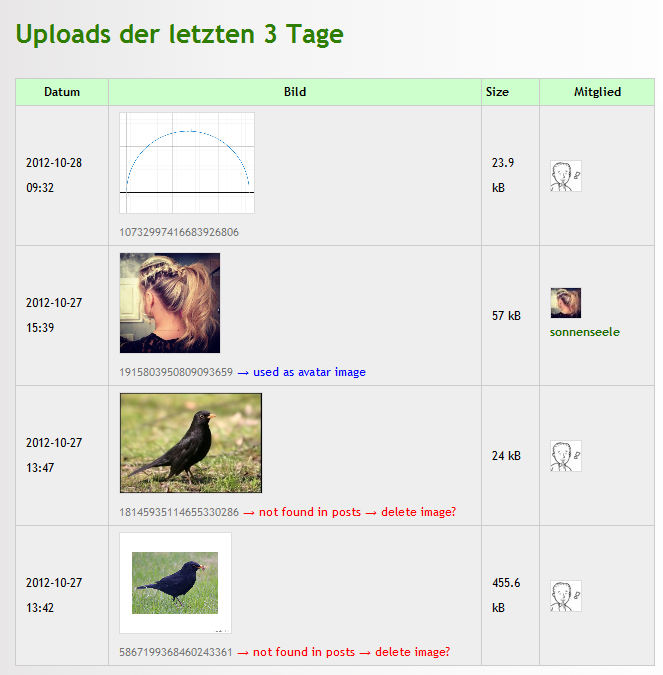
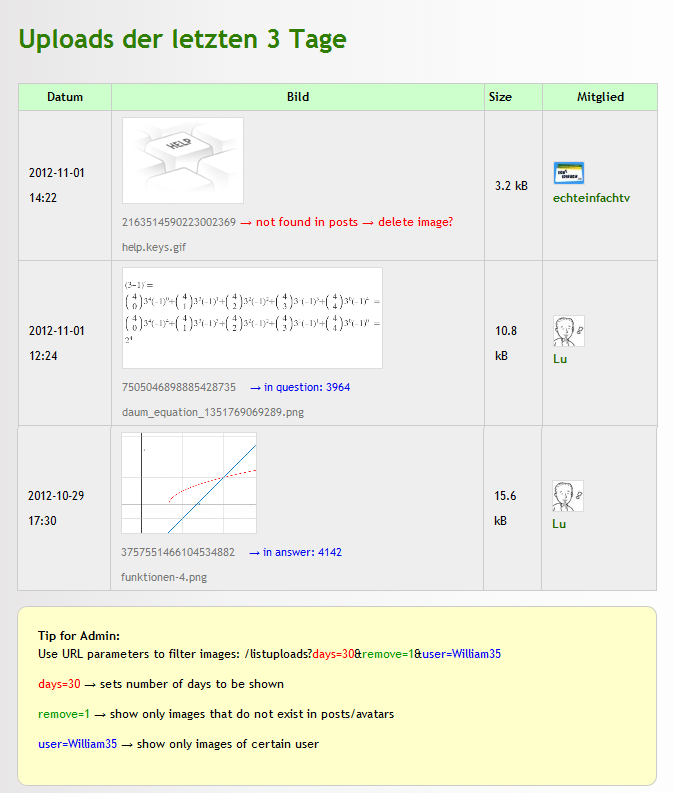
Update to v0.3 (new features added)

diff --git a/qa-list-uploads-page.php b/qa-list-uploads-page.php
@@ -35,14 +35,46 @@
 
 		function process_request($request)
 		{
-			// you can set number of days to be shown in the URL, e.g. yoursite.com/listuploads?days=5
+			/* process URL parameters */ 
+			
+			// you can set number of days to be shown in the URL
+			// e.g. yoursite.com/listuploads?days=5
 			$lastdays = qa_get("days");
 			if(is_null($lastdays) || $lastdays<=0) {
 				$lastdays = 3; // show new uploads from last x days
 			}
 			
-			/* start */
-			$qa_content=qa_content_prepare();
+			// you can set a flag in the URL to show only those images that do not exist in posts/avatars
+			// e.g. yoursite.com/listuploads?days=5&remove=1
+			$onlyImgToRemove = qa_get("remove");
+			$removeMode = false;
+			if(!is_null($onlyImgToRemove)) {
+				$removeMode=true;
+			}
+			
+			// you can specifiy a username in the URL if you wish to only see images of this user
+			// e.g. yoursite.com/listuploads?days=30&user=William35
+			$gotUserName = qa_get("user");
+			$usernameNotExists = false;
+			if(is_null($gotUserName)) {
+				$userid_toQuery = "";
+			}
+			else {
+				// get userid
+				$useridRowQuery = qa_db_query_sub("SELECT userid FROM ^users WHERE handle = '".$gotUserName."' LIMIT 1");
+				$theUserData = mysql_fetch_array($useridRowQuery);
+				if(!is_null($theUserData[0])) {				
+					$userid_toQuery = "AND userid = ".$theUserData[0];
+				}
+				else {
+					$userid_toQuery = "";
+					$usernameNotExists = true; // to inform admin
+				}
+			}
+			
+			
+			/* start content */
+			$qa_content = qa_content_prepare();
 
 			// page title
 			$qa_content['title'] = qa_lang_html('qa_list_uploads_lang/page_title') . " ".$lastdays." ".qa_lang_html('qa_list_uploads_lang/page_days'); 
@@ -64,15 +96,21 @@
 				return $qa_content;
 			}
 			
+			// inform admin if username passed by URL does not exist
+			if($usernameNotExists) {
+				$qa_content['custom0']='<div>'.qa_lang_html('qa_list_uploads_lang/user_not_existing').'</div>';
+				return $qa_content;
+			}
 
 			// required for qa_get_blob_url()
 			require_once QA_INCLUDE_DIR.'qa-app-blobs.php';
 			
 			// query blobs of last x days
-			$queryRecentUploads = qa_db_query_sub("SELECT blobid,format,userid,created
+			$queryRecentUploads = qa_db_query_sub("SELECT blobid,format,userid,created,filename
 											FROM `^blobs`
-											WHERE created > NOW() - INTERVAL ".$lastdays." DAY
-											ORDER BY created DESC;"); // LIMIT 0,100
+											WHERE created > NOW() - INTERVAL ".$lastdays." DAY " 
+											. $userid_toQuery .
+											" ORDER BY created DESC;"); // LIMIT 0,100
 											
 			// counter for custom html output
 			$c = 2;
@@ -92,10 +130,34 @@
 				
 				// check if image is used in post content
 				$notFoundString = '<span style="color:#F00">&rarr; not found in posts &rarr; <a style="color:#F00;" href="?delete='.$blobrow['blobid'].'">delete image?</a></span>';
-				$imageExistsQuery = qa_db_query_sub("SELECT postid FROM `^posts` WHERE `content` LIKE '%".$blobrow['blobid']."%' LIMIT 1");
+				$imageExistsQuery = qa_db_query_sub("SELECT postid,type,parentid FROM `^posts` WHERE `content` LIKE '%".$blobrow['blobid']."%' LIMIT 1");
 				$imageInPost = mysql_fetch_array($imageExistsQuery);
 				$existsInPost = $imageInPost[0];
-				$existsInPost = ($existsInPost=="") ? $notFoundString : "";
+				// $existsInPost = ($existsInPost=="") ? $notFoundString : "";
+				
+				// set link to question, answer, comment that contains the image
+				if($existsInPost=="") {
+					$existsInPost =  $notFoundString;
+				}
+				else if($imageInPost[1]=="A") {
+					$existsInPost = "<a href='".$imageInPost[2]."?show=".$imageInPost[0]."#a".$imageInPost[0]."' style='margin-left:10px;font-size:11px;'>&rarr; in answer: ".$existsInPost."</a>";
+				}
+				else if($imageInPost[1]=="C") {
+					// get question link from answer
+					$getQlink = mysql_fetch_array( qa_db_query_sub("SELECT parentid,type FROM `^posts` WHERE `postid` = ".$imageInPost[2]." LIMIT 1") );
+					$linkToQuestion = $getQlink[0];
+					if($getQlink[1]=="A") {
+						$existsInPost = "<a href='".$linkToQuestion."?show=".$imageInPost[0]."#c".$imageInPost[0]."' style='margin-left:10px;font-size:11px;'>&rarr; in comment: ".$existsInPost."</a>";
+					}
+					else {
+						// default: comment on question
+						$existsInPost = "<a href='".$imageInPost[2]."?show=".$imageInPost[0]."#c".$imageInPost[0]."' style='margin-left:10px;font-size:11px;'>&rarr; in comment: ".$existsInPost."</a>";
+					}
+				}
+				else {
+					// default: question
+					$existsInPost = "<a href='".$existsInPost."' style='margin-left:10px;font-size:11px;'>&rarr; in question: ".$imageInPost[0]."</a>";
+				}
 
 				// check if image is used as user avatar
 				$avImageExistsQuery = qa_db_query_sub("SELECT userid FROM `^users` WHERE `avatarblobid` LIKE '".$blobrow['blobid']."' LIMIT 1");
@@ -105,14 +167,20 @@
 					$existsInPost = "<span style='color:#00F'>&rarr; used as avatar image</span>";
 				}
 				
-				// if you do not have a lightbox added to your theme, use version A and comment out B
-				// see also lightbox-tutorial: http://question2answer.org/qa/17523/implement-a-lightbox-effect-for-posted-images-q2a-tutorial
-				
-				// A: without lightbox -> open in new window
-				// $listAllUploads .= "<tr><td>".substr($blobrow['created'],0,16)."</td> <td><a target='_blank' href='".qa_get_blob_url($blobrow['blobid'])."'><img class='listSmallImages' src='".qa_get_blob_url($blobrow['blobid'])."' \></a></td> <td></td> </tr>";
-				
-				// B: with lightbox -> open image in popup
-				$listAllUploads .= "<tr><td>".substr($blobrow['created'],0,16)."</td> <td><img class='listSmallImages' src='".qa_get_blob_url($blobrow['blobid'])."' \> <br /><span style='color:#777;font-size:11px;'>".$blobrow['blobid']."</span> ".$existsInPost."</td> <td>".$imgSize."</td> <td>". qa_get_user_avatar_html($userrow['flags'], $userrow['email'], $userrow['handle'], $userrow['avatarblobid'], $userrow['avatarwidth'], $userrow['avatarheight'], qa_opt('avatar_users_size'), false) ."<br />". qa_get_one_user_html($userrow['handle'], false) ."</td> </tr>";
+				$rowString = "<tr><td>".substr($blobrow['created'],0,16)."</td> <td><img class='listSmallImages' src='".qa_get_blob_url($blobrow['blobid'])."' \> <br /><span style='color:#777;font-size:11px;'>".$blobrow['blobid']."</span> ".$existsInPost."<br /><span style='color:#777;font-size:11px;'>".$blobrow['filename']."</span></td> <td>".$imgSize."</td> <td>". qa_get_user_avatar_html($userrow['flags'], $userrow['email'], $userrow['handle'], $userrow['avatarblobid'], $userrow['avatarwidth'], $userrow['avatarheight'], qa_opt('avatar_users_size'), false) ."<br />". qa_get_one_user_html($userrow['handle'], false) ."</td> </tr>";
+			
+				// list only images to be deleted or all images
+				if($removeMode) {
+					if($existsInPost==$notFoundString) {
+						$listAllUploads .= $rowString;
+					}
+				}
+				else {
+					// uncomment for hack: show only big images over 100K
+					//if($theSize[0] > 100000) {
+					$listAllUploads .= $rowString;
+					//}
+				}
 			}
 			$listAllUploads .= "</table>";
 
@@ -123,26 +191,42 @@
 			$qa_content['custom'.++$c]= $listAllUploads;
 			
 			$qa_content['custom'.++$c]='</div>';
+	
+			// show admin tip how to use parameters in URL
+			$qa_content['custom'.++$c]='<div style="padding:20px;border:1px solid #CCC;border-radius:10px;background:#FFC;"><p><b>Tip for Admin:</b><br />Use URL parameters to filter images: /listuploads?<span style="color:#F00">days=30</span>&amp;<span style="color:#090">remove=1</span>&amp;<span style="color:#00F">user=William35</span></p>';
+			$qa_content['custom'.++$c]='<p><span style="color:#F00">days=30</span> &rarr; sets number of days to be shown</p>';
+			$qa_content['custom'.++$c]='<p><span style="color:#090">remove=1</span> &rarr; show only images that do not exist in posts/avatars</p>';
+			$qa_content['custom'.++$c]='<p><span style="color:#00F">user=William35</span> &rarr; show only images of certain user</p>';
+			$qa_content['custom'.++$c]='</div>';
 			
-			// make list bigger on page and style the dropdown
+			// CSS: make list bigger on page and style the dropdown
 			$qa_content['custom'.++$c] = '<style type="text/css">table thead tr th,table tfoot tr th{background-color:#cfc;border:1px solid #CCC;padding:4px} table{background-color:#EEE;margin:30px 0 15px;text-align:left;border-collapse:collapse} td{border:1px solid #CCC;padding:1px 10px;line-height:25px}tr:hover{background:#ffc} .column1, .column2 {text-align:center; } td img{border:1px solid #DDD !important; margin-right:5px;} .listSmallImages { max-width:350px; max-height:100px; margin: 5px 0; cursor:pointer; } </style>';
 			
-			// jquery effect if click on image
+			// jquery lightbox effect: if you click an image, it opens in a popup 
+			// if you do not have a lightbox added to your theme, jquery will link the image to itself
+			// see also lightbox-tutorial: http://question2answer.org/qa/17523/implement-a-lightbox-effect-for-posted-images-q2a-tutorial
 			$qa_content['custom'.++$c] = '<script type="text/javascript">
 			$(document).ready(function(){ 
-			// check if lightbox-popup exists
-			if ($("#lightbox-popup").length>0) { 
-				// lightbox effect for images
-				$(".listSmallImages").click(function(){
-					$("#lightbox-popup").fadeIn("fast");
-					$("#lightbox-img").attr("src", $(this).attr("src"));
-					// center vertical
-					$("#lightbox-center").css("margin-top", ($(window).height() - $("#lightbox-center").height())/2  + "px");
-				});
-				$("#lightbox-popup").click(function(){
-					$("#lightbox-popup").fadeOut("fast");
-				});
-			}
+				// check if lightbox-popup exists
+				if ($("#lightbox-popup").length>0) { 
+					// lightbox effect for images
+					$(".listSmallImages").click(function(){
+						$("#lightbox-popup").fadeIn("fast");
+						$("#lightbox-img").attr("src", $(this).attr("src"));
+						// center vertical
+						$("#lightbox-center").css("margin-top", ($(window).height() - $("#lightbox-center").height())/2  + "px");
+					});
+					$("#lightbox-popup").click(function(){
+						$("#lightbox-popup").fadeOut("fast");
+					});
+				}
+				else {
+					// wrap image in anchor and link to itself
+					$(".listSmallImages").each(function(){
+						var anchor = $("<a/>").attr({"href": this.src});
+						$(this).wrap(anchor);
+					});
+				}
 			});
 			</script>';
 			

diff --git a/qa-plugin.php b/qa-plugin.php
@@ -2,9 +2,9 @@
 /*
 	Plugin Name: List Uploads Page
 	Plugin URI: https://github.com/echteinfachtv/q2a-list-uploads-page
-	Plugin Description: Displays the newest image uploads on a separate page / Image Upload Manager
-	Plugin Version: 0.2
-	Plugin Date: 2012-10-30
+	Plugin Description: Displays the newest image uploads on a separate page / Q2A Image Manager
+	Plugin Version: 0.3
+	Plugin Date: 2012-11-01
 	Plugin Author: echteinfachtv
 	Plugin Author URI: http://www.echteinfach.tv/
 	Plugin License: GPLv3

diff --git a/qa-list-uploads-lang.php b/qa-list-uploads-lang.php
@@ -27,6 +27,7 @@
 		'upload_by_user' => 'Mitglied', // username
 		'media_item' => 'Bild', // image
 		'not_allowed' => 'Du hast keine Berechtigung, diese Seite aufzurufen.', // You do not have permission to access this site.
+		'user_not_existing' => 'Dieses Mitglied existiert leider nicht. Hast du dich verschrieben?', // This user does not exist, maybe you misspelled the username
 	);
 	
 

diff --git a/README.rst b/README.rst
@@ -1,20 +1,23 @@
 ====================================
-Question2Answer List Uploads v0.2
+Question2Answer List Uploads v0.3
 ====================================
 -----------
 Description
 -----------
-This is a plugin for **Question2Answer** that displays the newest uploads (images) of the last days on a separate page
+This is a plugin for Question2Answer that displays the newest image uploads on a separate page including options to delete unused images
 
 --------
 Features
 --------
 - page only accessible by admin
 - provides a page for showing newest image uploads of last x days, access-URL ``your-q2a-installation.com/listuploads``
-- shows upload date, blobid, size of image in kB, and user that uploaded
-- admin can specifiy number of past days to show images by URL: listuploads?days=5 
+- shows upload date, blobid, post where image is used, original filename, size of image in kB, and user that uploaded it
+- listed images can be opened in lightbox (if installed_) or images are linked to themselves
 - checks if each image is used within posts or as avatar
-- admin can delete images that are not used
+- admin can delete images that are not used from database
+- admin can specifiy parameters by URL to filter images: /listuploads?days=30&remove=1&user=William35 (see details on listuploads page)
+
+.. _installed: http://question2answer.org/qa/17523/implement-a-lightbox-effect-for-posted-images-q2a-tutorial
 
 ------------
 Installation
@@ -23,7 +26,6 @@ Installation
 #. Get the source code for this plugin directly from github_
 #. Extract the files.
 #. Change language strings in file **qa-list-uploads-lang.php**
-#. Optional: Change settings in file qa-list-uploads-page.php
 #. Upload the files to a subfolder called ``q2a-list-uploads-page`` inside the ``qa-plugins`` folder of your Q2A installation.
 #. Navigate to your site, go to **Admin -> Plugins** on your q2a install. Check if plugin "List Uploads Page" is listed.
 #. Navigate to yourq2asite.com/listuploads to see the new uploads listed
